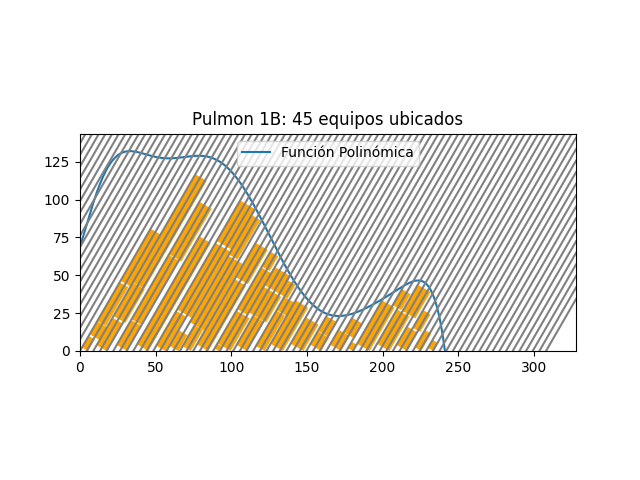
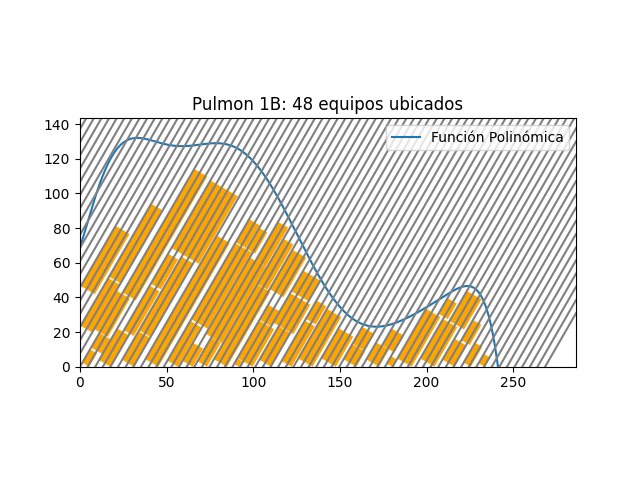
Slots algorithm working

Changed region(s): [[0.0625, 0.1875, 0.9062, 0.8125]]

diff --git a/modules/tetris/DualSorter.py b/modules/tetris/DualSorter.py
@@ -81,14 +81,6 @@ class DualSorter:
             else:
                 x_delta = 0
 
-            '''
-            if(self.slot_size > 0):
-                #x_delta = y_patio/pendiente
-                x_delta = 0
-            else:
-                x_delta = 0
-            '''
-
             if(not located):
 
                 added_delta=False
@@ -96,7 +88,17 @@ class DualSorter:
                 for x_patio in x_values:
 
                     if(not added_delta):
-                        rect.update_coords(x_delta,0)
+
+                        # Ajustar coordenadas iniciales al primer carril más cercano
+                        x_probable = left_corner[0] + x_delta
+                        for x_resta in x_values:
+                            if(x_probable - x_resta < 0):
+                                break
+                            else:
+                                x_probable -= x_resta
+
+                        #rect.update_coords(x_delta,0)
+                        rect.update_coords(x_probable, 0)
                         added_delta = True
                     
                     fits = False

diff --git a/modules/sort_inventory_module.py b/modules/sort_inventory_module.py
@@ -66,14 +66,14 @@ class InventorySorter:
                 placeB_x_range = (0, 250)
                 valid_place = True
                 
-            case 'Pulmon 2ffffff':
+            case 'Pulmon 2':
                 placeA_model = 'Pulmon2A.joblib'
                 placeB_model = 'Pulmon2B.joblib'
                 placeA_x_range = (0, 220)
                 placeB_x_range = (0, 250)
                 valid_place = True
 
-            case 'Pulmon 3ffffff':
+            case 'Pulmon 3':
                 placeA_model = 'Pulmon3A.joblib'
                 placeB_model = 'Pulmon3B.joblib'
                 placeA_x_range = (0, 130)
